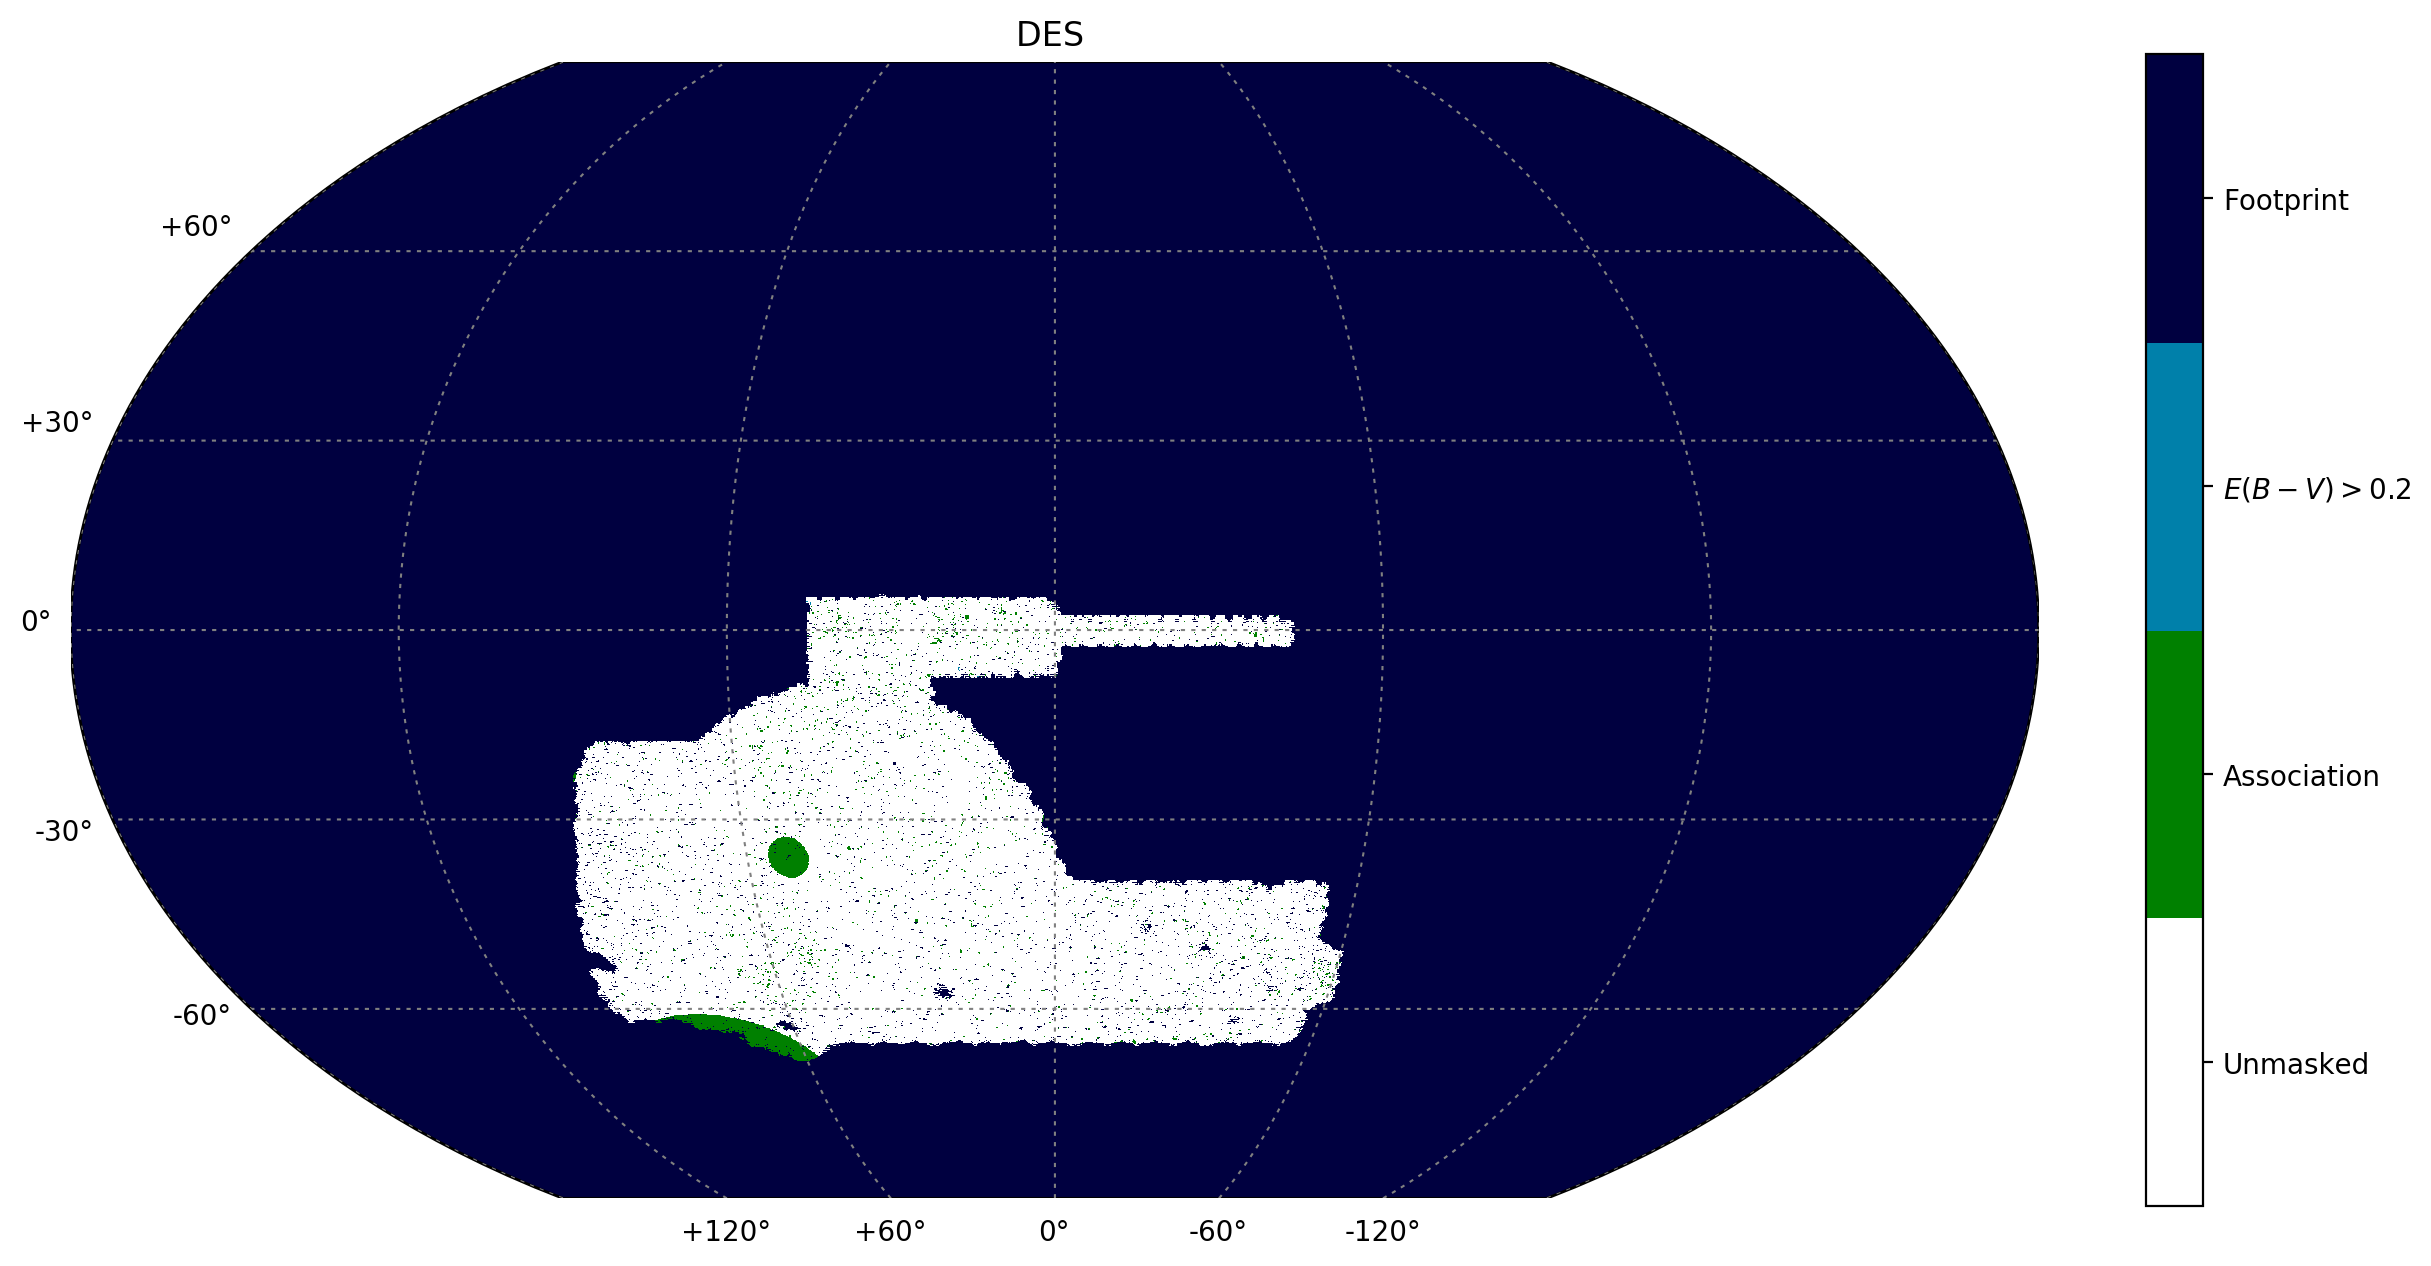
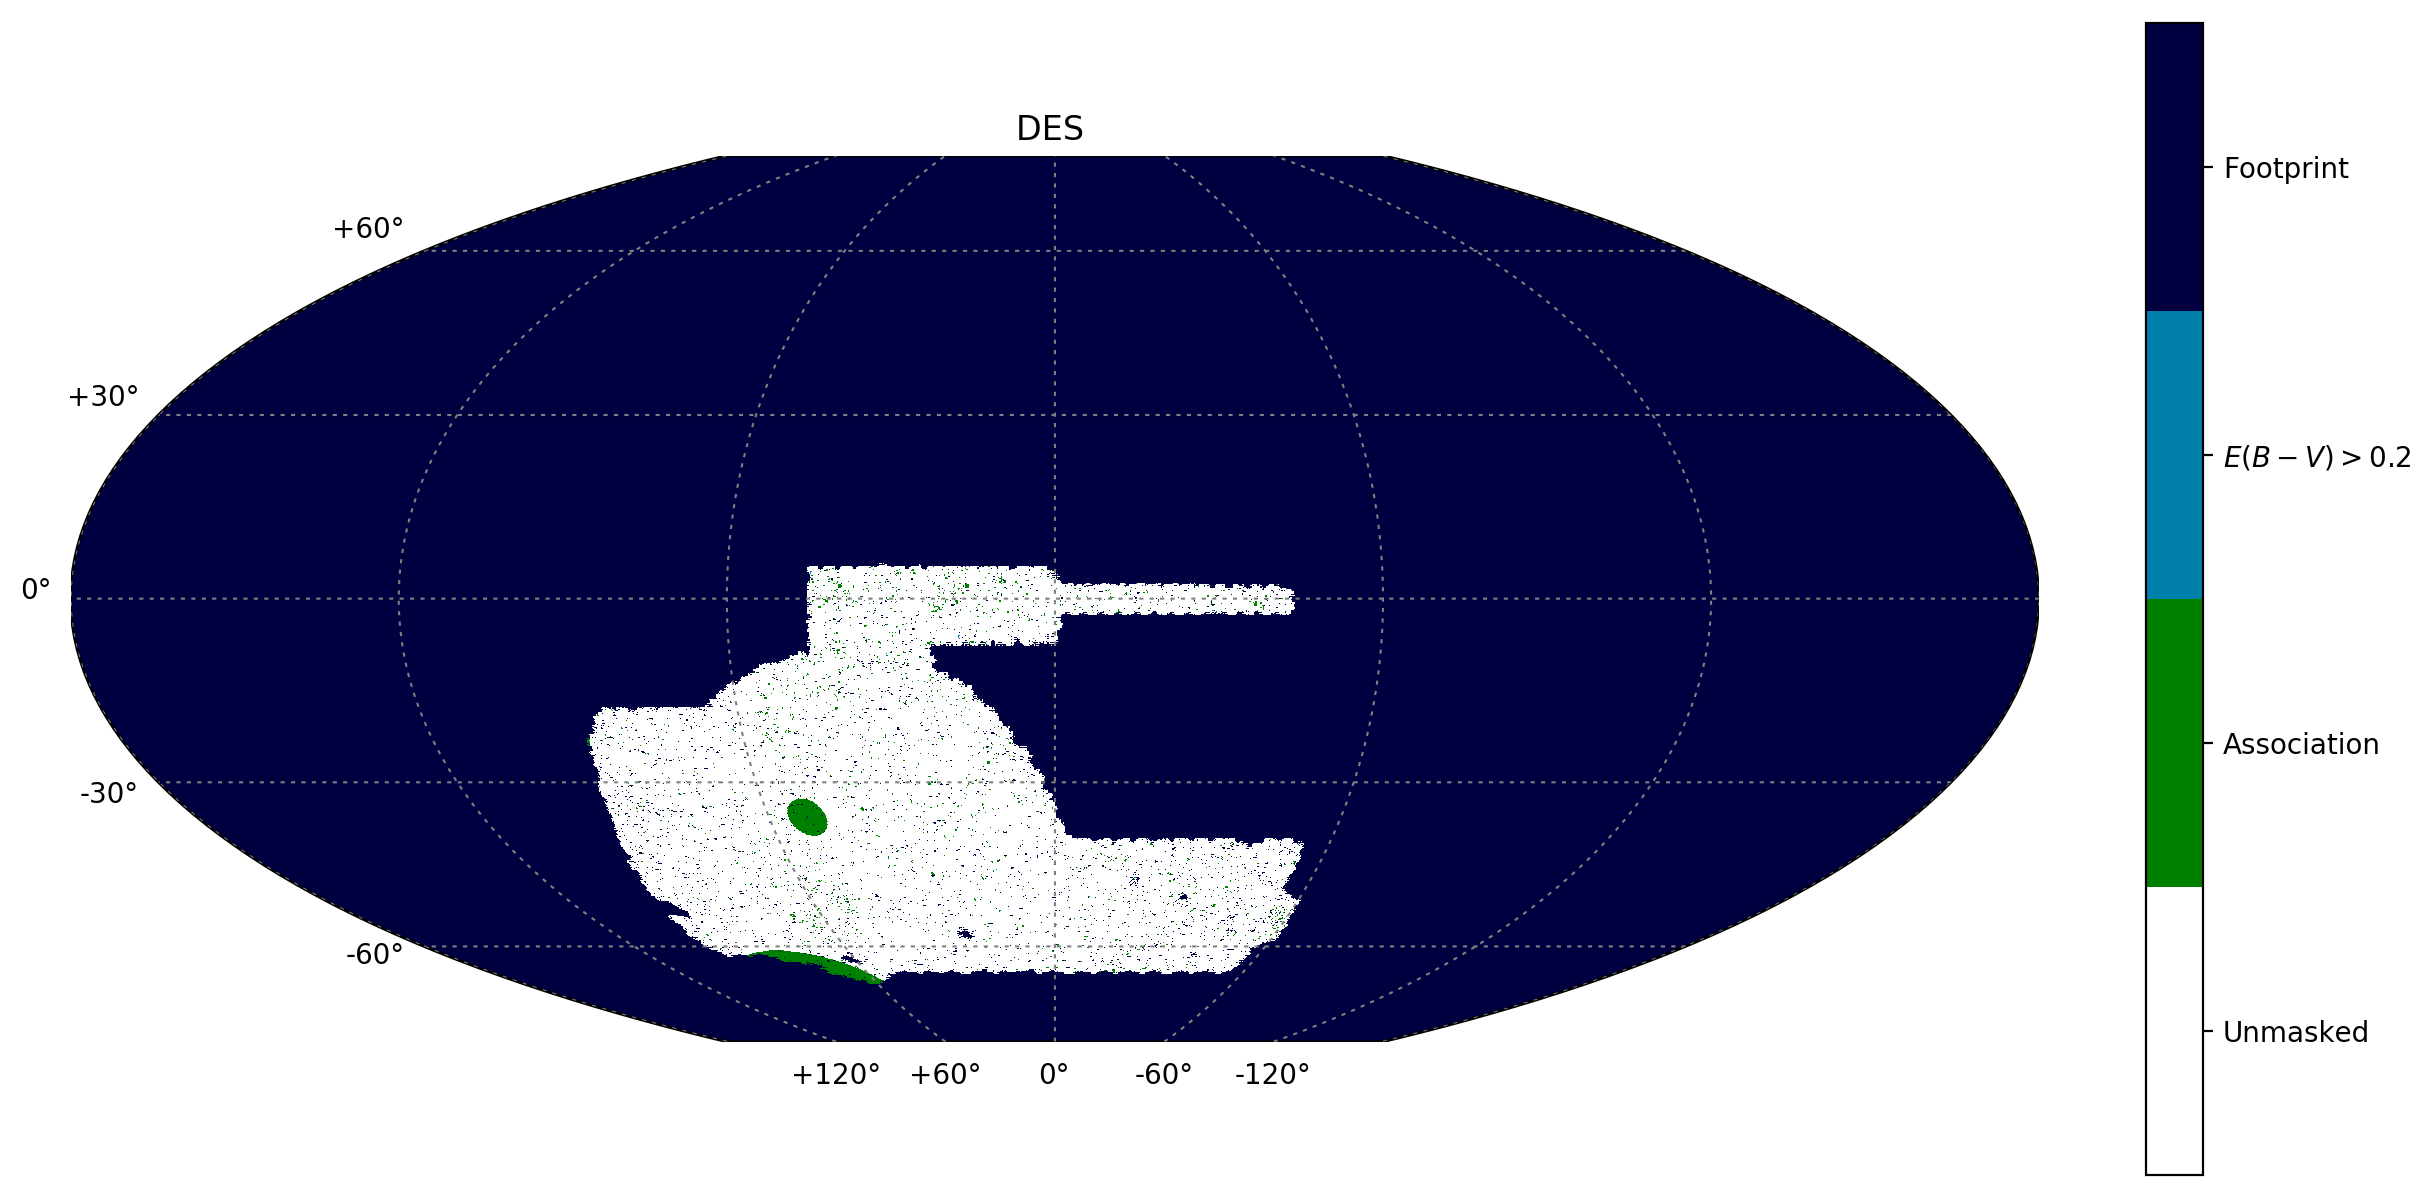
Changed mask plot projectoin to McBride

diff --git a/healpix_mask.py b/healpix_mask.py
@@ -161,7 +161,7 @@ pylab.savefig('healpix_mask_{}_v1.png'.format(args.survey), bbox_inches='tight')
 # Using skymap
 simplified_mask_ring = hp.reorder(simplified_mask, n2r=True)
 fig, ax = pylab.subplots(figsize=(17,10))                     
-smap = Skymap(projection = 'kav7',lon_0=0)
+smap = Skymap(projection = 'mbtfpq',lon_0=0)
 im,lon,lat,values = smap.draw_hpxmap(simplified_mask_ring, xsize=1600, cmap=new_cmap)
 cbar = pylab.colorbar(ticks = (np.arange(n) + 0.5)*(n-1)/n, fraction=0.027)
 cbar.set_ticklabels(['Unmasked', 'Association', r'$E(B-V) > 0.2$', 'Footprint'])
